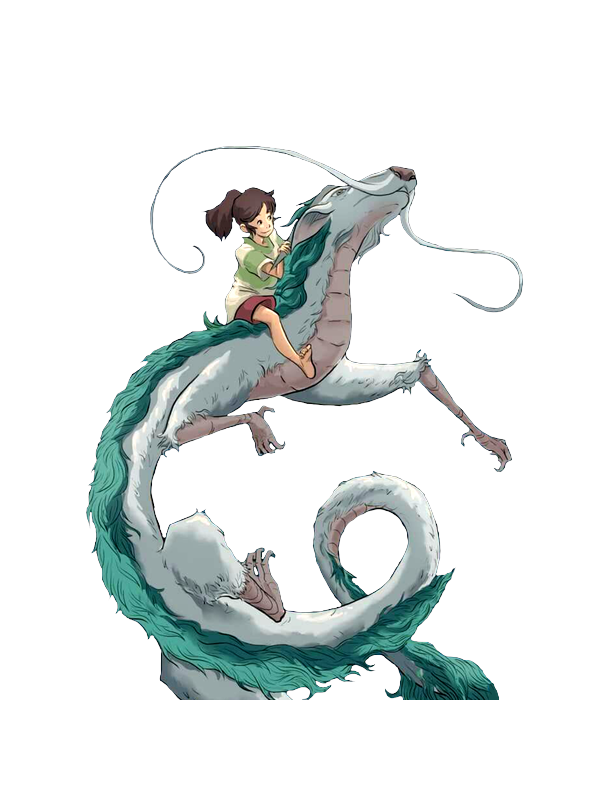
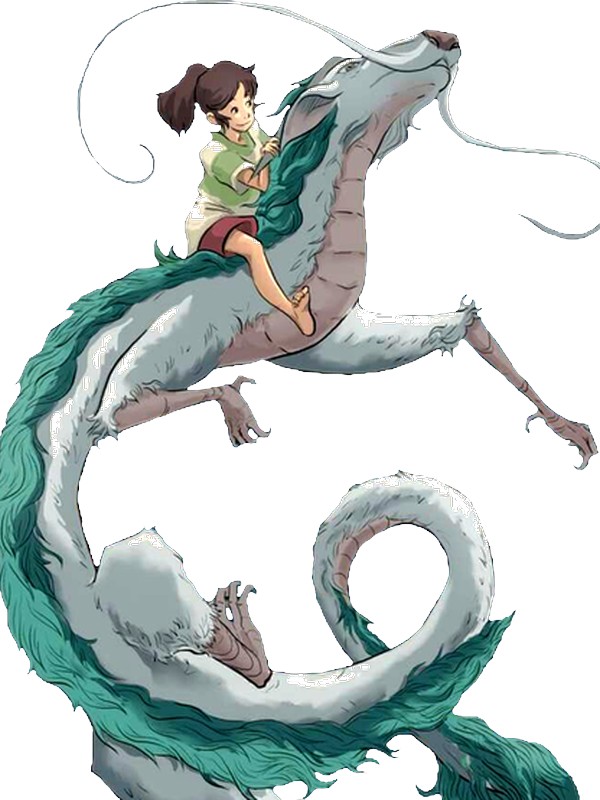
Minor updates

diff --git a/tools/seed/review_transparent.html b/tools/seed/review_transparent.html
@@ -2,7 +2,7 @@
 <html lang="en">
 <head>
   <meta charset="UTF-8">
-  <title>Storefront Screensavers - Transparent Overlay Review</title>
+  <title>Storefront Screensavers - Transparent Review</title>
   <style>
     * { box-sizing: border-box; }
     body { background: #0f172a; color: #f8fafc; font-family: system-ui, sans-serif; margin: 0; padding: 20px; }
@@ -40,7 +40,7 @@
 <body>
 <header>
   <div>
-    <h1>🖼 Transparent Overlay Screensaver Review</h1>
+    <h1>🖼 Transparent Screensaver Review</h1>
     <div class="stats" id="stats">Loading…</div>
   </div>
   <button class="btn-export" onclick="exportApproved()">💾 Export approved_transparent.json</button>
@@ -53,7 +53,7 @@ const candidates = [
     "title": "Cat Looking Out Window",
     "author": "ReaderBackdrop Community",
     "authorUrl": "https://readerbackdrop.com/",
-    "category": "Transparent Overlay",
+    "category": "Transparent",
     "sourceUrl": "https://utfs.io/f/aPKH5e9W4OtE0r6ApVJ71kyBjWhZMiRXdVlS2w8FObYAzaPe",
     "license": "Community Upload",
     "licenseUrl": "https://readerbackdrop.com/",
@@ -66,7 +66,7 @@ const candidates = [
     "title": "Spirited Away Dragon Haku",
     "author": "ReaderBackdrop Community",
     "authorUrl": "https://readerbackdrop.com/",
-    "category": "Transparent Overlay",
+    "category": "Transparent",
     "sourceUrl": "https://utfs.io/f/aPKH5e9W4OtEDaQbT1kg1Rv9Q4x2AOUjHkWJyhEB0iTsM3rp",
     "license": "Community Upload",
     "licenseUrl": "https://readerbackdrop.com/",
@@ -79,7 +79,7 @@ const candidates = [
     "title": "Frieren and Fern",
     "author": "ReaderBackdrop Community",
     "authorUrl": "https://readerbackdrop.com/",
-    "category": "Transparent Overlay",
+    "category": "Transparent",
     "sourceUrl": "https://utfs.io/f/aPKH5e9W4OtEK7ONM0LP328apSoqs0djReMAxhvCfDLbTXyk",
     "license": "Community Upload",
     "licenseUrl": "https://readerbackdrop.com/",
@@ -92,7 +92,7 @@ const candidates = [
     "title": "Garfield Reading Book",
     "author": "ReaderBackdrop Community",
     "authorUrl": "https://readerbackdrop.com/",
-    "category": "Transparent Overlay",
+    "category": "Transparent",
     "sourceUrl": "https://utfs.io/f/aPKH5e9W4OtEnajfhoZDR0cFIhzoxPMfHWVpeCd76U4GQa9q",
     "license": "Community Upload",
     "licenseUrl": "https://readerbackdrop.com/",
@@ -105,7 +105,7 @@ const candidates = [
     "title": "Reading a Newspaper Engraving",
     "author": "ReaderBackdrop Community",
     "authorUrl": "https://readerbackdrop.com/",
-    "category": "Transparent Overlay",
+    "category": "Transparent",
     "sourceUrl": "https://utfs.io/f/aPKH5e9W4OtE7iGVYJqUnRi1KLNkmetbI3xcUzPh0a9MBuXj",
     "license": "Community Upload",
     "licenseUrl": "https://readerbackdrop.com/",
@@ -118,7 +118,7 @@ const candidates = [
     "title": "Baymax Waving",
     "author": "ReaderBackdrop Community",
     "authorUrl": "https://readerbackdrop.com/",
-    "category": "Transparent Overlay",
+    "category": "Transparent",
     "sourceUrl": "https://utfs.io/f/aPKH5e9W4OtE6zPSxqD1ArVXg5DWtnsxvN7hcOPG9SfFQMiR",
     "license": "Community Upload",
     "licenseUrl": "https://readerbackdrop.com/",
@@ -131,7 +131,7 @@ const candidates = [
     "title": "Marvel Superheroes Cover",
     "author": "ReaderBackdrop Community",
     "authorUrl": "https://readerbackdrop.com/",
-    "category": "Transparent Overlay",
+    "category": "Transparent",
     "sourceUrl": "https://utfs.io/f/aPKH5e9W4OtE6CKdB1D1ArVXg5DWtnsxvN7hcOPG9SfFQMiR",
     "license": "Community Upload",
     "licenseUrl": "https://readerbackdrop.com/",

diff --git a/styles.css b/styles.css
@@ -324,12 +324,12 @@ body::after {
 }
 
 .card-image-wrap.transparent-bg.book-text-mode::before {
-  content: "CHAPTER 1\A Mr. Sherlock Holmes\A\A In the year 1878 I took my degree of Doctor of Medicine at the University of London, and proceeded to Netley to go through the course prescribed for surgeons in the army. Having completed my studies there, I was duly attached to the Fifth Northumberland Fusiliers as Assistant Surgeon. The regiment was stationed in India at the time, and before I could join it, the second Afghan war had broken out. On landing at Bombay, I learned that my corps had advanced through the passes, and was already deep in the enemy's country. I followed, however, with many other officers who were in the same situation, and succeeded in reaching Candahar in safety, where I found my regiment, and at once entered upon my new duties. The campaign brought honours and promotion to many, but for me it had nothing but misfortune and disaster...";
+  content: "CHAPTER 1\A Mr. Sherlock Holmes\A\A In the year 1878 I took my degree of Doctor of Medicine at the University of London, and proceeded to Netley to go through the course prescribed for surgeons in the army. Having completed my studies there, I was duly attached to the Fifth Northumberland Fusiliers as Assistant Surgeon. The regiment was stationed in India at the time, and before I could join it, the second Afghan war had broken out. On landing at Bombay, I learned that my corps had advanced through the passes, and was already deep in the enemy's country. I followed, however, with many other officers who were in the same situation, and succeeded in reaching Candahar in safety, where I found my regiment, and at once entered upon my new duties.\A\A The campaign brought honours and promotion to many, but for me it had nothing but misfortune and disaster. I was removed from my brigade and attached to the Berkshires, with whom I served at the fatal battle of Maiwand. There I was struck on the shoulder by a Jezail bullet, which shattered the bone and grazed the subclavian artery. I should have fallen into the hands of the murderous Ghazis had it not been for the devotion and courage shown by Murray, my orderly, who threw me across a pack-horse, and succeeded in bringing me safely to the British lines.\A\A Worn with pain, and weak from the prolonged hardships which I had undergone, I was removed, with a great train of wounded sufferers, to the base hospital at Peshawur. Here I rallied, and had already improved so far as to be able to walk about the wards, when I was struck down by enteric fever, that curse of our Indian possessions. For months my life was despaired of, and when at last I came to myself and became convalescent, I was so weak and emaciated that a medical board determined that not a day should be lost in sending me back to England...";
   position: absolute;
   inset: 10px;
   font-family: 'Georgia', 'Garamond', 'Times New Roman', serif;
-  font-size: 0.65rem;
-  line-height: 1.35;
+  font-size: 0.62rem;
+  line-height: 1.38;
   color: #111827;
   overflow: hidden;
   opacity: 0.92;

diff --git a/app.js b/app.js
@@ -58,7 +58,7 @@ document.addEventListener('DOMContentLoaded', () => {
         `;
       }
 
-      // Check if item is an explicit Transparent Overlay (e.g. ReaderBackdrop or Transparent category)
+      // Check if item is an explicit Transparent (e.g. ReaderBackdrop or Transparent category)
       const isTransparent = (
         (typeof item.category === 'string' && item.category.toLowerCase().includes('transparent')) ||
         (Array.isArray(item.category) && item.category.some(c => String(c).toLowerCase().includes('transparent'))) ||
@@ -97,7 +97,7 @@ document.addEventListener('DOMContentLoaded', () => {
     });
   }
 
-  // Transparent Overlay Preview Mode Toggle Listener
+  // Transparent Preview Mode Toggle Listener
   const overlayToggleBtns = document.querySelectorAll('#overlay-mode-toggle .mode-btn');
   if (overlayToggleBtns.length > 0) {
     // Set initial active state based on localStorage

diff --git a/index.html b/index.html
@@ -57,7 +57,7 @@
           <button class="tag-btn" data-category="Art">Art</button>
           <button class="tag-btn" data-category="Pop Culture">Pop Culture</button>
           <button class="tag-btn" data-category="Quotes">Quotes</button>
-          <button class="tag-btn" data-category="Transparent Overlay">Transparent Overlay</button>
+          <button class="tag-btn" data-category="Transparent">Transparent</button>
         </div>
       </div>
 

diff --git a/tools/seed/fix_transparent_overlays.py b/tools/seed/fix_transparent_overlays.py
@@ -1,0 +1,64 @@
+import os
+import glob
+from PIL import Image
+
+BASE_DIR = os.path.dirname(os.path.abspath(__file__))
+REPO_ROOT = os.path.normpath(os.path.join(BASE_DIR, '..', '..'))
+
+IMAGES_DIR = os.path.join(REPO_ROOT, 'images')
+THUMBS_DIR = os.path.join(IMAGES_DIR, 'thumbnails')
+
+print("[+] Fast processing and scaling transparent overlays...")
+
+def process_transparent_image(file_path, target_size):
+    try:
+        with Image.open(file_path) as raw_img:
+            img = raw_img.convert("RGBA")
+            
+            # Fast PIL alpha transparency for white backgrounds (R>235, G>235, B>235)
+            r, g, b, a = img.split()
+            w_r = Image.eval(r, lambda p: 255 if p > 235 else 0)
+            w_g = Image.eval(g, lambda p: 255 if p > 235 else 0)
+            w_b = Image.eval(b, lambda p: 255 if p > 235 else 0)
+            
+            is_white = Image.eval(Image.composite(w_r, Image.new("L", r.size, 0), w_g), lambda p: p)
+            is_white = Image.eval(Image.composite(is_white, Image.new("L", r.size, 0), w_b), lambda p: p)
+            
+            new_a = Image.composite(Image.new("L", r.size, 0), a, is_white)
+            img.putalpha(new_a)
+
+            # Crop to content bounding box
+            bbox = img.getbbox()
+            if bbox:
+                cropped = img.crop(bbox)
+            else:
+                cropped = img
+
+            # Canvas & Scale to fill 3:4 canvas edge-to-edge
+            canvas = Image.new("RGBA", target_size, (0, 0, 0, 0))
+            cw, ch = cropped.size
+            tw, th = target_size
+            
+            scale = max(tw / cw, th / ch)
+            nw, nh = int(cw * scale), int(ch * scale)
+            
+            scaled = cropped.resize((nw, nh), Image.Resampling.LANCZOS)
+            
+            x = (tw - nw) // 2
+            y = (th - nh) // 2
+            
+            canvas.paste(scaled, (x, y), scaled)
+            canvas.save(file_path, "PNG")
+            print(f"  -> Successfully aligned {os.path.basename(file_path)}")
+    except Exception as e:
+        print(f"  -> Error on {file_path}: {e}")
+
+rb_thumbs = glob.glob(os.path.join(THUMBS_DIR, 'rb-*.png'))
+for thumb_path in rb_thumbs:
+    process_transparent_image(thumb_path, (600, 800))
+    full_name = os.path.basename(thumb_path)
+    full_path = os.path.join(IMAGES_DIR, full_name)
+    if os.path.exists(full_path):
+        process_transparent_image(full_path, (1860, 2480))
+
+print("[+] All transparent overlays re-aligned successfully!")
